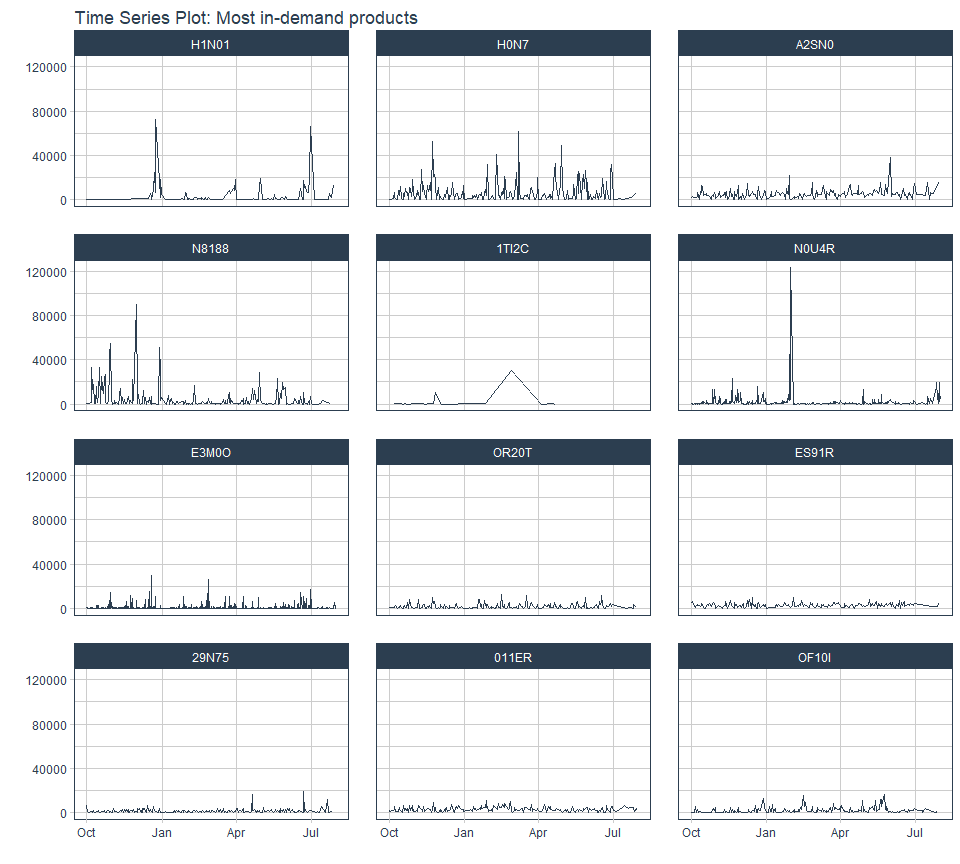
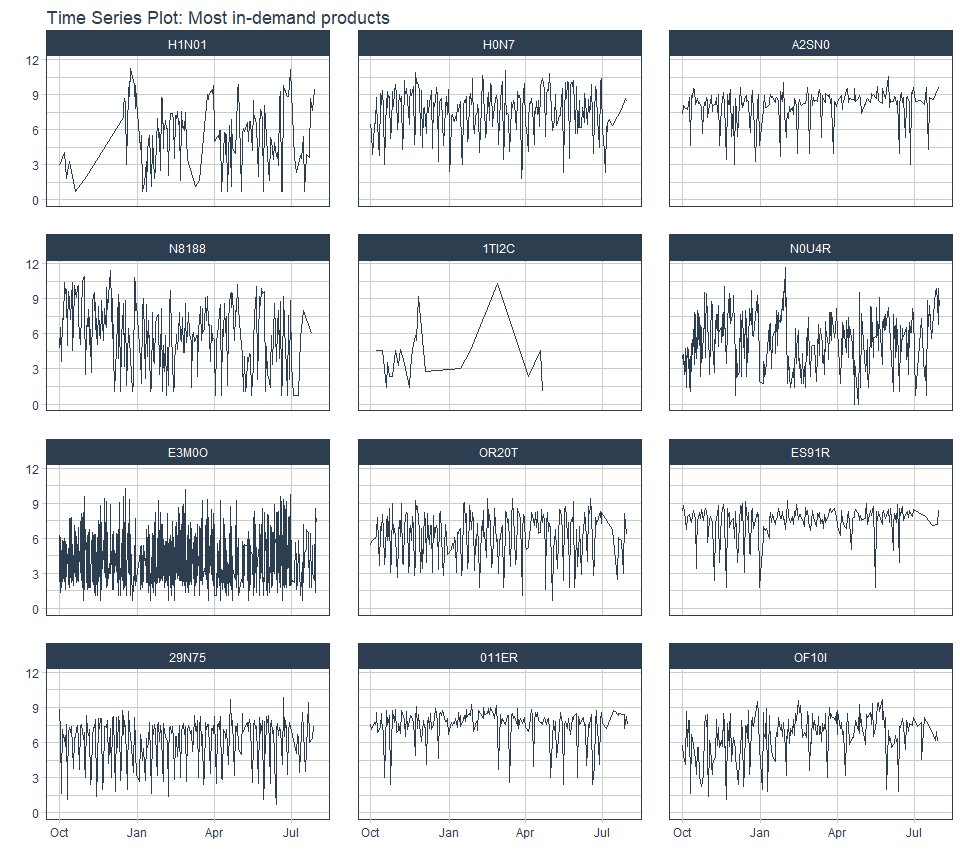
Add files via upload

Changed region(s): [[0.0312, 0.5, 1.0, 0.9688], [0.0312, 0.0, 1.0, 0.4688]]

diff --git a/README.md b/README.md
@@ -1,11 +1,4 @@
 
-<!-- README.md is generated from README.Rmd. Please edit that file -->
-
-# Big Pharma Product Forecast
-
-<!-- badges: start -->
-<!-- badges: end -->
-
 The goal of this project is to forecast product demand for Big Pharma, a
 large pharmaceutical distribution company in Germany.
 
@@ -16,8 +9,8 @@ with:
 
 1.  Overstocking - having too much of a product available without
     corresponding consumer demand.
-2.  Understocking - having too little products avaialbe to meet consumer
-    demands.
+2.  Understocking - having too little products available to meet
+    consumer demands.
 
 **Tasks**
 
@@ -74,17 +67,68 @@ This allowed me to focus on the most important products and quickly
 iterate to generate a working solution.
 
 ![](README_files/figure-gfm/unnamed-chunk-3-1.png)<!-- -->
+
+Plot below shows the time series plot for the products with the highest
+demand over the period under consideration, the y-axis records the
+logged values of the `stock_demand`. This makes it easier to identify
+seasonal patterns and reduces the variance of the observations which
+makes it ideal for modelling. Below is a seasonal decomposition of the
+time series plot for one product.
+
 ![](README_files/figure-gfm/unnamed-chunk-4-1.png)<!-- -->
 
-You’ll still need to render `README.Rmd` regularly, to keep `README.md`
-up-to-date. `devtools::build_readme()` is handy for this. You could also
-use GitHub Actions to re-render `README.Rmd` every time you push. An
-example workflow can be found here:
-<https://github.com/r-lib/actions/tree/v1/examples>.
+The plot above helps us identify time components we can include in our
+model to capture potential seasonal occurrences. It’s clear demand is
+higher during weekdays. On a monthly scale, July seems to have the least
+stock demand.
 
-You can also embed plots, for example:
+Three models were developed for the problem and configured so that the
+most suitable model will be chosen for each individual product.
 
-![](README_files/figure-gfm/pressure-1.png)<!-- -->
+**Questions**
 
-In that case, don’t forget to commit and push the resulting figure
-files, so they display on GitHub.
+1.  What evaluation metric would you recommend for your model and why?
+    Model performance was assessed using the root mean squared error
+    (RMSE) metric, an scaled version of the mean squared error which
+    gives indication of how far our prediction was from the actual.The
+    RMSE is chosen because it penalizes larger variances between the
+    actual and predicted values. Thus, large deviations from the actual
+    in either direction are penalized which simulates the financial
+    impact of getting predictions wrong. A lower RMSE score is better,
+    hence for each product, the model with the lowest RMSE is selected
+    to be used for the forecast. The RMSE number is in the same unit as
+    the projected value, this is an advantage of this metric in
+    comparison to the others. This makes it easier to comprehend.
+
+A table with other metrics that can be used to evaluate each models
+performance for each product is included in the final solution for
+completeness and transparency.
+
+2.  How would you build a machine learning pipeline for your model? An
+    end-to-end pipeline, from data acquisition and cleaning to
+    modelling, training and deployment will follow almost the same
+    workflow used here. Additional steps would include testing and
+    version controlling.
+
+3.  How would you measure the impact your model has on the company’s
+    operations? Impact of this model on the company operations could be
+    measured by:
+
+<!-- -->
+
+1.  Monetary value of excess stock at the end of the month. In the case
+    where the model over estimates customer demand.
+2.  Monetary value for product demand over available stock. In the case
+    of underestimation resulting in product shortages, this will
+    represent missed revenue opportunities and ideally cases of this
+    nature should be rare.
+
+These two business metrics will serve as good barometers for how well
+the solution is performing and whether or not it requires further
+adjustment.
+
+### Deployment
+
+The solution, a time series forecast 30 days into the future, is
+deployed on shinyapps.io and can be accessed
+[here](https://nii-amoo.shinyapps.io/Big_Pharma_Product_Forecast/?_ga=2.30230655.1728434036.1665487901-2124963698.1665487901).
